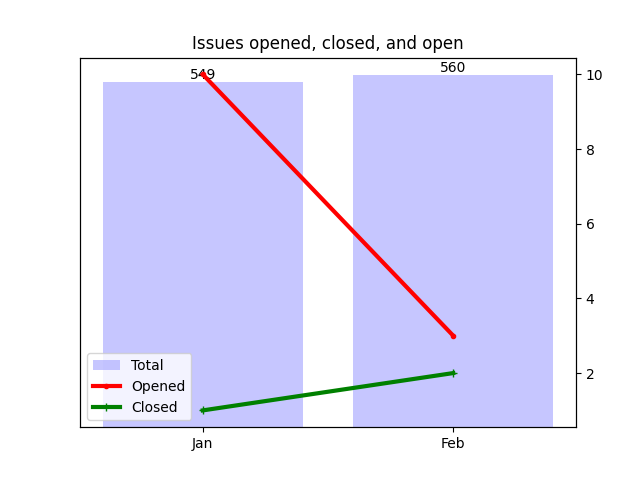
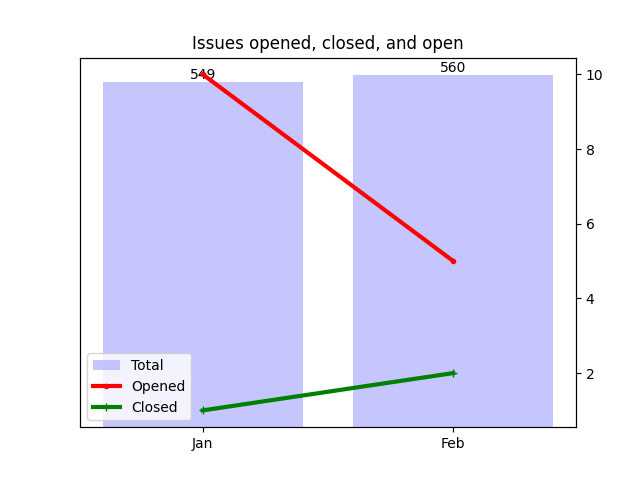
Apply automatic changes

diff --git a/docs/analytics.html b/docs/analytics.html
@@ -74,7 +74,7 @@ td .material-icons { display:inline-flex; vertical-align: top; font-size:1.1rem;
 						</tr>
 						<tr>
 							<td>Feb</td>
-							<td>3</td>
+							<td>5</td>
 							<td>2</td>
 						</tr>
 					</table>
@@ -95,7 +95,7 @@ td .material-icons { display:inline-flex; vertical-align: top; font-size:1.1rem;
 							<td>
 								<a href="http://github.com/notofonts/latin-greek-cyrillic/issues">latin-greek-cyrillic</a>
 							</td>
-							<td>150</td>
+							<td>152</td>
 						</tr>
 						<tr>
 							<td>
@@ -235,7 +235,7 @@ td .material-icons { display:inline-flex; vertical-align: top; font-size:1.1rem;
 						<tr>
 							<td>1</td>
 							<td>
-									<a href="http://github.com/notofonts/latin-greek-cyrillic/issues">latin-greek-cyrillic</a>: 150, 
+									<a href="http://github.com/notofonts/latin-greek-cyrillic/issues">latin-greek-cyrillic</a>: 152, 
 
 									<a href="http://github.com/notofonts/nastaliq/issues">nastaliq</a>: 26, 
 
